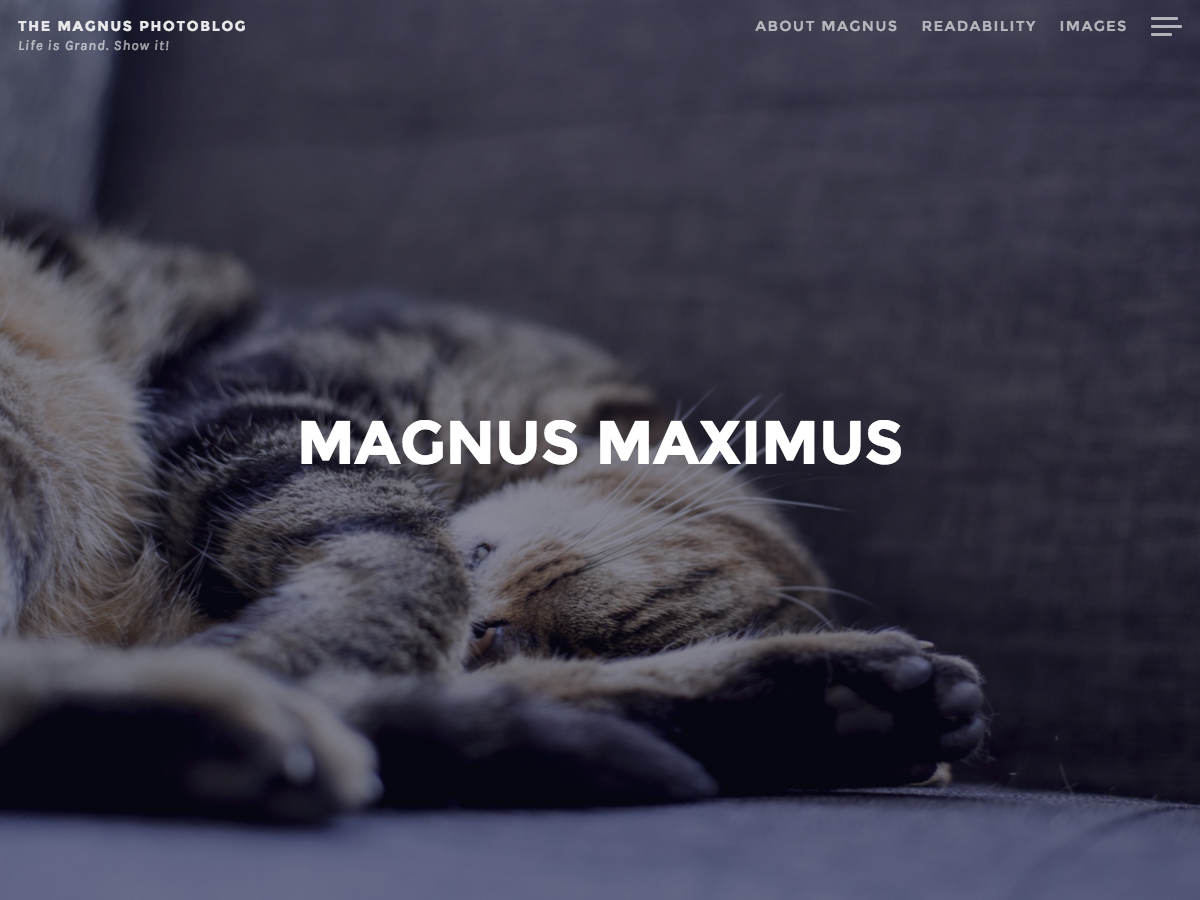
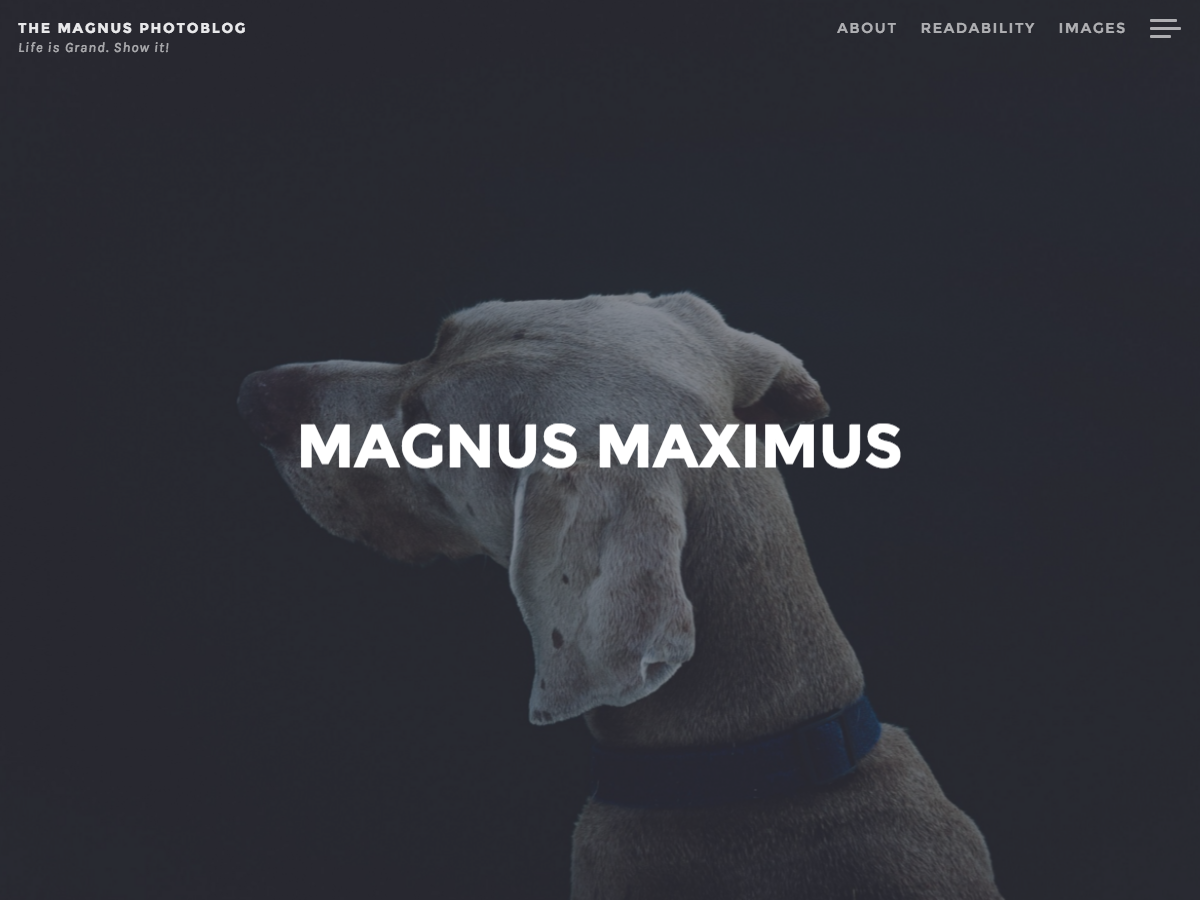
Updated screenshot + bumped theme version for repository upload

diff --git a/sass/style.scss b/sass/style.scss
@@ -4,7 +4,7 @@ Theme URI: http://thefivethemes.com/themes/magnus
 Author: Hugo Baeta
 Author URI: http://thefivethemes.com
 Description: Life is Grand, Show it!
-Version: 2.1
+Version: 2.2
 License: GNU General Public License v2 or later
 License URI: http://www.gnu.org/licenses/gpl-2.0.html
 Text Domain: magnus
@@ -14,7 +14,7 @@ Magnus WordPress Theme, Copyright (C) 2013-2016, Hugo Baeta.
 Magnus is distributed under the terms of the GNU GPL license.
 
 Magnus is based on Underscores http://underscores.me/, (C) 2012-2015 Automattic, Inc.
-Screenshot photo from deathtothestockphoto.com
+Theme screenshot uses photography by Will Langenberg, from unsplash.com
 Normalizing styles have been helped along thanks to the fine work of
 Nicolas Gallagher and Jonathan Neal http://necolas.github.com/normalize.css/
 */

diff --git a/style.css b/style.css
@@ -4,7 +4,7 @@ Theme URI: http://thefivethemes.com/themes/magnus
 Author: Hugo Baeta
 Author URI: http://thefivethemes.com
 Description: Life is Grand, Show it!
-Version: 2.1
+Version: 2.2
 License: GNU General Public License v2 or later
 License URI: http://www.gnu.org/licenses/gpl-2.0.html
 Text Domain: magnus
@@ -14,7 +14,7 @@ Magnus WordPress Theme, Copyright (C) 2013-2016, Hugo Baeta.
 Magnus is distributed under the terms of the GNU GPL license.
 
 Magnus is based on Underscores http://underscores.me/, (C) 2012-2015 Automattic, Inc.
-Screenshot photo from deathtothestockphoto.com
+Theme screenshot uses photography by Will Langenberg, from unsplash.com
 Normalizing styles have been helped along thanks to the fine work of
 Nicolas Gallagher and Jonathan Neal http://necolas.github.com/normalize.css/
 */
